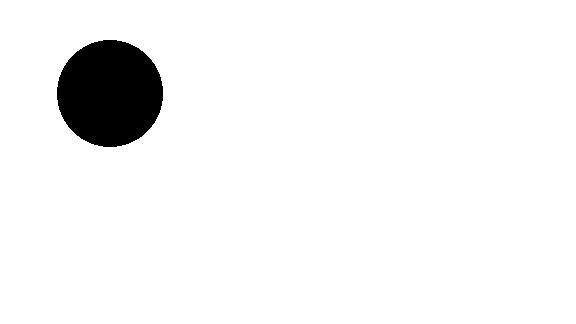
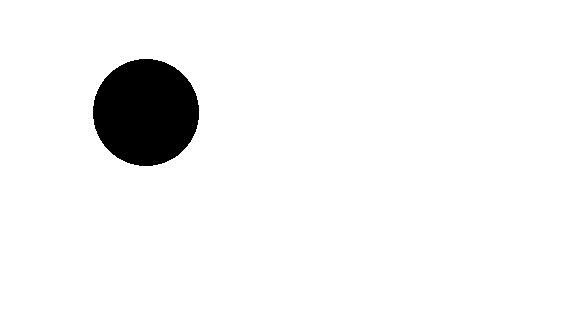
w7

Changed region(s): [[0.0938, 0.1235, 0.3438, 0.5247]]

diff --git a/Week7/motion_horn_schunk_math.py b/Week7/motion_horn_schunk_math.py
@@ -36,8 +36,8 @@ def horn_schunck(img1, img2, alpha=1.0, num_iter=100):
     return u, v
 
 # Read and prepare images
-img1 = imageio.imread('motion1.png')
-img2 = imageio.imread('motion2.png')
+img1 = imageio.imread('motion1.jpg')
+img2 = imageio.imread('motion2.jpg')
 
 if img1.ndim == 3:  # Convert to grayscale if needed
     img1 = np.dot(img1[...,:3], [0.299, 0.587, 0.114])

diff --git a/Week7/motion_lucus_math.py b/Week7/motion_lucus_math.py
@@ -42,8 +42,8 @@ def lucas_kanade_optical_flow(img1, img2, window_size=5):
     return u, v
 
 #read inputs
-img1 = imageio.imread('motion1.png')
-img2 = imageio.imread('motion2.png')
+img1 = imageio.imread('motion1.jpg')
+img2 = imageio.imread('motion2.jpg')
 if img1.ndim == 3:
     img1 = np.dot(img1[...,:3], [0.299, 0.587, 0.114])
 if img2.ndim == 3:

diff --git a/Week7/motion_flow_lucas.py b/Week7/motion_flow_lucas.py
@@ -2,8 +2,8 @@ import cv2
 import numpy as np
 
 # Load images (make sure they are the same size!)
-img1 = cv2.imread('motion1.png')
-img2 = cv2.imread('motion2.png')
+img1 = cv2.imread('motion1.jpg')
+img2 = cv2.imread('motion2.jpg')
 if img1 is None or img2 is None:
     print("Cannot load images.")
     exit(1)
